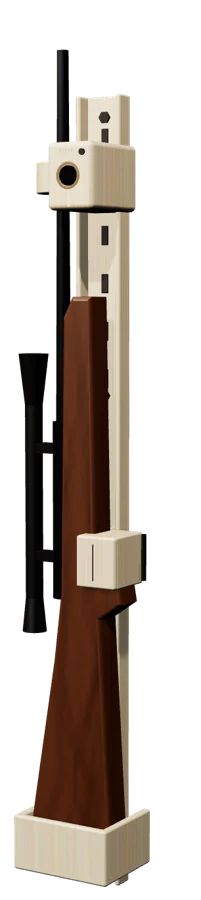
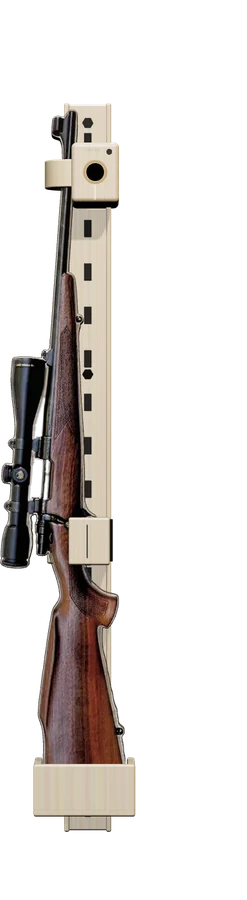
Full sweep: new guns everywhere (shop style step, shop renders x20, admin), car trunk view fixed (framing, gate, materials, soft fade when switching wall/car), true matte black, speed governor (pixel budget, auto-drop AO/bloom/post if frames are slow)
Claude-Session: https://claude.ai/code/session_017P5iNDVymbiEUQ1MggiqgS

diff --git a/site/configure/index.html b/site/configure/index.html
@@ -136,7 +136,7 @@ body:has(#picker.on) #quest{opacity:0!important;visibility:hidden!important}
 body:has(#picker.on) .coach{display:none}
 .tile .gunph{width:100%;height:34px;object-fit:contain;filter:drop-shadow(0 2px 3px rgba(0,0,0,.4));margin-bottom:6px}
 </style>
-<link rel="stylesheet" href="/shell.css?v=26">
+<link rel="stylesheet" href="/shell.css?v=27">
 <script type="importmap">
 {"imports":{"three":"https://cdn.jsdelivr.net/npm/three@0.160.0/build/three.module.js","three/addons/":"https://cdn.jsdelivr.net/npm/three@0.160.0/examples/jsm/"}}
 </script>
@@ -213,8 +213,8 @@ d_photo:['Photos','الصور'],pk_photo:['Your photos','صورك']
 <div class="coach hide" id="coach" data-i18n="coach">Tap to test the lock</div>
 <div id="toast"></div>
 <div id="busy" class="glass"><i></i><span></span></div>
-<script src="/shell.js?v=26"></script>
-<script src="/fx.js?v=26"></script>
+<script src="/shell.js?v=27"></script>
+<script src="/fx.js?v=27"></script>
 <script type="module">
 import * as THREE from 'three';
 import { OrbitControls } from 'three/addons/controls/OrbitControls.js';
@@ -229,7 +229,7 @@ import { AfterimagePass } from 'three/addons/postprocessing/AfterimagePass.js';
 import { ShaderPass } from 'three/addons/postprocessing/ShaderPass.js';
 const canvas=document.getElementById('c');
 const renderer=new THREE.WebGLRenderer({canvas,antialias:true,powerPreference:'high-performance'});
-renderer.setPixelRatio(Math.min(devicePixelRatio,2));renderer.setSize(innerWidth,innerHeight,false);
+renderer.setPixelRatio(Math.max(1,Math.min(devicePixelRatio,innerWidth<820?1.5:1.75,Math.sqrt(2.4e6/(innerWidth*innerHeight)))));renderer.setSize(innerWidth,innerHeight,false);
 renderer.outputColorSpace=THREE.SRGBColorSpace;renderer.toneMapping=THREE.ACESFilmicToneMapping;renderer.toneMappingExposure=1.05;
 renderer.shadowMap.enabled=true;renderer.shadowMap.type=THREE.PCFSoftShadowMap;
 const scene=new THREE.Scene();scene.background=new THREE.Color(0x0e0d0b);scene.fog=new THREE.Fog(0x0e0d0b,8,16);
@@ -406,14 +406,14 @@ room.traverse(o=>{if(o.isMesh&&o!==wall&&o!==side&&o!==floor&&o!==rug&&o!==win){
 const car=new THREE.Group();car.visible=false;scene.add(car);
 const ground=mesh(new THREE.PlaneGeometry(14,14),new THREE.MeshStandardMaterial({color:0x1a1917,roughness:.92,map:plaster}));ground.rotation.x=-Math.PI/2;ground.castShadow=false;car.add(ground);
 const carpet=new THREE.MeshStandardMaterial({color:0x1d1c1a,roughness:1});
-const paint=new THREE.MeshPhysicalMaterial({color:0x2a2d31,metalness:.6,roughness:.3,clearcoat:1,clearcoatRoughness:.08});
-const leather=new THREE.MeshStandardMaterial({color:0x2b2621,roughness:.62});
+const paint=new THREE.MeshPhysicalMaterial({color:0x26282c,metalness:.5,roughness:.42,clearcoat:.5,clearcoatRoughness:.3});
+const leather=new THREE.MeshStandardMaterial({color:0x1c1916,roughness:.75});
 car.add(at(rbox(1.96,.05,1.15,.01,carpet),0,.475,-.05));
 car.add(at(rbox(.07,.6,1.15,.02,carpet),-1.0,.75,-.05),at(rbox(.07,.6,1.15,.02,carpet),1.0,.75,-.05));
 const seat=new THREE.Group();seat.add(at(rbox(1.94,.78,.18,.04,leather),0,.39,0));[-.55,.55].forEach(x=>seat.add(at(rbox(.3,.2,.12,.04,leather),x,.9,0)));seat.position.set(0,.5,-.66);seat.rotation.x=-.18;car.add(seat);
 car.add(at(rbox(.18,1.0,.3,.03,paint),-1.12,.98,.48),at(rbox(.18,1.0,.3,.03,paint),1.12,.98,.48),at(rbox(2.42,.14,.34,.03,paint),0,1.5,.42),at(rbox(2.42,.36,.36,.05,paint),0,.3,.62),at(box(2.0,.035,.14,M.steel),0,.495,.52));
 const tl=new THREE.MeshStandardMaterial({color:0x2a0a08,emissive:0x8a1a10,emissiveIntensity:.6,roughness:.3});car.add(at(rbox(.05,.5,.06,.01,tl),-1.12,1.05,.64),at(rbox(.05,.5,.06,.01,tl),1.12,1.05,.64));
-const gate=new THREE.Group();gate.position.set(0,1.56,.5);gate.rotation.x=-1.9;gate.add(at(rbox(2.1,.95,.06,.03,paint),0,-.475,0));car.add(gate);
+const gate=new THREE.Group();gate.position.set(0,1.56,.5);gate.rotation.x=-2.55;gate.add(at(rbox(2.1,.95,.06,.03,paint),0,-.475,0));car.add(gate);
 const garage=new THREE.PointLight(0xfff0dc,6,9,1.6);garage.position.set(-1.2,2.6,2.4);car.add(garage);
 car.traverse(o=>{if(o.isMesh&&o!==ground){o.castShadow=true;o.receiveShadow=true;}});ground.receiveShadow=true;
 /* ---------- lights ---------- */
@@ -425,7 +425,7 @@ const picSpot=new THREE.SpotLight(0xffdcae,10,2.2,.7,.9,1.5);scene.add(picSpot,p
 const S={gun:'ar15',mount:'wall',wall:0,fin:0,night:true,place:false,open:false,busy:false,view:0};
 let fx=.1,fy=1.6;
 const WALLS=['#6b625a','#e2d9ca','#3d3129','#4a4a3b'];
-const FIN=[{c:'#1b1b1c',m:[0x161617,.55,.62]},{c:'#8a6a43',m:[0x8a6a43,.95,.3]},{c:'#bdb9b1',m:[0xb8b4ac,1,.24]},{c:'#cbbfa9',m:[0xc8bba3,.1,.55]}];
+const FIN=[{c:'#1b1b1c',m:[0x0c0c0d,.4,.55]},{c:'#8a6a43',m:[0x8a6a43,.95,.3]},{c:'#bdb9b1',m:[0xb8b4ac,1,.24]},{c:'#cbbfa9',m:[0xc8bba3,.1,.55]}];
 function setFinish(i){const f=FIN[i].m;shellM.color.setHex(f[0]);shellM.metalness=f[1];shellM.roughness=f[2];}
 function setWall(i){wallMat.color.set(WALLS[i]).multiplyScalar(i===1?.72:1);baseM.color.set(WALLS[i]).multiplyScalar(.5);}
 function setLight(night){S.night=night;hemi.intensity=night?.18:.9;sun.intensity=night?.15:1.6;spot.intensity=night?34:16;picSpot.intensity=night?12:5;lampL.intensity=night?2.4:.6;shade.material.emissiveIntensity=night?.5:.15;winM.color.set(night?0x2a3445:0xfff1d8);renderer.toneMappingExposure=night?1.0:1.08;const bg=night?0x0b0a09:0x1c1a17;if(scene.background&&scene.background.isColor)scene.background.setHex(bg);if(scene.fog)scene.fog.color.setHex(bg);}
@@ -446,7 +446,7 @@ function flyTo(p,t,d=1.4){tw={p0:camera.position.clone(),t0:controls.target.clon
 function view(i){if(S.ar)return;S.view=i;document.getElementById('vLabel').textContent=Shell.t(VIEWS[i]);const V=(x,y,z)=>new THREE.Vector3(x,y,z);let p,t;
  const mid=fy+(BUTT+COL.x)/2,lockY=fy+COL.x;
  if(S.mount==='wall'){if(i===0){p=V(fx,mid+.1,3.4);t=V(fx,mid+.05,0);}if(i===1){p=V(fx+.55,lockY+.08,.75);t=V(fx,lockY-.06,.04);}if(i===2){p=V(fx+2.3,1.55,4.6);t=V(fx*.5,1.15,0);}}
- else{if(i===0){p=V(0,1.62,1.35);t=V(0,.52,-.12);}if(i===1){p=V(.75,1.05,.55);t=V(COL.x-.25,.6,0);}if(i===2){p=V(2.6,1.35,3.4);t=V(0,.75,0);}}
+ else{if(i===0){p=V(0,2.15,1.25);t=V(0,.5,-.08);}if(i===1){p=V(.35,1.25,.62);t=V(.15,.52,-.05);}if(i===2){p=V(2.2,1.9,2.9);t=V(0,.6,0);}}
  if(innerHeight>innerWidth&&i!==1){const off=new THREE.Vector3().subVectors(p,t).multiplyScalar(1.45);p=t.clone().add(off);}
  flyTo(p,t);}
 controls.addEventListener('start',()=>{tw=null;});
@@ -486,7 +486,7 @@ function pickGun(id){S.gun=id;build(baseOf(id));place();presetTex=null;presetCut
  loadPreset(id).then(p=>{if(!p||S.gun!==id)return;presetTex=p.tex;presetCutP=p.cut;presetLen=p.len;placePhotoGun();});}
 function renderUI(){
  const pg=document.getElementById('pGun');pg.innerHTML='';Object.keys(GKEYS).forEach(id=>{const b=document.createElement('button');b.className='tile'+(S.gun===id?' on':'');b.innerHTML=`<img class="gunph" src="/configure/guns/${id}.webp?v=2" alt=""><span>${Shell.t(GKEYS[id])}</span>`;b.onclick=()=>{useMyPhoto=false;pickGun(id);renderUI();renderPhotoUI();};pg.appendChild(b);});
- const pp=document.getElementById('pPlace');pp.innerHTML='';[['wall','place','p_wall'],['car','car','p_car']].forEach(([id,ic,k])=>{const b=document.createElement('button');b.className='tile'+(S.mount===id?' on':'');b.innerHTML=`<span class="ic">${Shell.UIIC[ic]}</span><span>${Shell.t(k)}</span>`;b.onclick=()=>{if(S.place)togglePlace(false);S.mount=id;place();view(0);renderUI();};pp.appendChild(b);});
+ const pp=document.getElementById('pPlace');pp.innerHTML='';[['wall','place','p_wall'],['car','car','p_car']].forEach(([id,ic,k])=>{const b=document.createElement('button');b.className='tile'+(S.mount===id?' on':'');b.innerHTML=`<span class="ic">${Shell.UIIC[ic]}</span><span>${Shell.t(k)}</span>`;b.onclick=()=>{if(S.mount===id)return;if(S.place)togglePlace(false);const fd=document.getElementById('mfade');fd.classList.add('on');setTimeout(()=>{S.mount=id;place();view(0);renderUI();setTimeout(()=>fd.classList.remove('on'),80);},260);};pp.appendChild(b);});
  document.getElementById('wallOpts').style.display=S.mount==='wall'?'':'none';
  const dots=(el,arr,key,lab,fn)=>{el.innerHTML='';arr.forEach((c,i)=>{const b=document.createElement('button');if(S[key]===i)b.classList.add('on');b.innerHTML=`<i style="background:${c}"></i><span>${Shell.t(lab+i)}</span>`;b.onclick=()=>{S[key]=i;fn(i);renderUI();};el.appendChild(b);});};
  dots(document.getElementById('pWall'),WALLS,'wall','w',setWall);
@@ -772,7 +772,7 @@ function wallTex(kind){if(WTEX[kind])return WTEX[kind];let t;
  const N=(x,w,h,a)=>{const d=x.getImageData(0,0,w,h);for(let i=0;i<d.data.length;i+=4){const n=rnd(-a,a);d.data[i]+=n;d.data[i+1]+=n;d.data[i+2]+=n;}x.putImageData(d,0,0);};
  if(kind==='wood')t=ctex(512,512,(x,w,h)=>{for(let i=0;i<8;i++){const v=200+rnd(-25,25);x.fillStyle=`rgb(${v},${v},${v})`;x.fillRect(i*w/8,0,w/8,h);x.fillStyle='rgba(0,0,0,.35)';x.fillRect(i*w/8,0,2,h);for(let k=0;k<26;k++){x.strokeStyle=`rgba(0,0,0,${rnd(.04,.12)})`;x.beginPath();let gx=i*w/8+rnd(0,w/8);x.moveTo(gx,0);for(let y=0;y<h;y+=24){gx+=rnd(-1.5,1.5);x.lineTo(gx,y);}x.stroke();}}},[4,1.6]);
  else if(kind==='tile'||kind==='marble'){t=ctex(512,512,(x,w,h)=>{x.fillStyle='#e6e6e6';x.fillRect(0,0,w,h);if(kind==='marble'){for(let k=0;k<14;k++){x.strokeStyle=`rgba(90,90,90,${rnd(.08,.25)})`;x.lineWidth=rnd(.6,2.2);x.beginPath();let px=rnd(0,w),py=0;x.moveTo(px,py);while(py<h){px+=rnd(-30,30);py+=rnd(20,50);x.lineTo(px,py);}x.stroke();}}N(x,w,h,6);x.fillStyle='rgba(0,0,0,.25)';for(let i=0;i<=4;i++){x.fillRect(i*w/4-1,0,2,h);x.fillRect(0,i*h/4-1,w,2);}},[4,1.7]);}
- else if(kind==='brick')t=ctex(512,512,(x,w,h)=>{x.fillStyle='#9a9a9a';x.fillRect(0,0,w,h);const bh=h/16,bw=w/4;for(let r=0;r<16;r++)for(let c=-1;c<5;c++){const v=260+rnd(-30,25);x.fillStyle=`rgb(${v},${v},${v})`;x.fillRect(c*bw+(r%2)*bw/2+2,r*bh+2,bw-4,bh-4);}N(x,w,h,10);},[3,1.4]);
+ else if(kind==='brick')t=ctex(512,512,(x,w,h)=>{x.fillStyle='#9a9a9a';x.fillRect(0,0,w,h);const bh=h/16,bw=w/4;for(let r=0;r<16;r++)for(let c=-1;c<5;c++){const v=270+rnd(-30,25);x.fillStyle=`rgb(${v},${v},${v})`;x.fillRect(c*bw+(r%2)*bw/2+2,r*bh+2,bw-4,bh-4);}N(x,w,h,10);},[3,1.4]);
  else if(kind==='concrete'||kind==='stone')t=ctex(512,512,(x,w,h)=>{x.fillStyle='#d0d0d0';x.fillRect(0,0,w,h);for(let i=0;i<300;i++){const r=rnd(10,60),px=rnd(0,w),py=rnd(0,h),g=x.createRadialGradient(px,py,0,px,py,r);g.addColorStop(0,`rgba(${Math.random()>.5?255:120},${Math.random()>.5?255:120},${Math.random()>.5?255:120},.07)`);g.addColorStop(1,'rgba(0,0,0,0)');x.fillStyle=g;x.fillRect(px-r,py-r,r*2,r*2);}N(x,w,h,16);if(kind==='concrete'){x.fillStyle='rgba(0,0,0,.18)';for(let i=1;i<3;i++)x.fillRect(0,i*h/3,w,1);for(let i=1;i<2;i++)x.fillRect(i*w/2,0,1,h);[[.2,.2],[.8,.2],[.2,.53],[.8,.53],[.2,.86],[.8,.86]].forEach(([a,b])=>{x.beginPath();x.arc(a*w,b*h,4,0,7);x.fill();});}},[2,1]);
  else if(kind==='wallpaper')t=ctex(256,256,(x,w,h)=>{x.fillStyle='#e8e8e8';x.fillRect(0,0,w,h);x.strokeStyle='rgba(0,0,0,.09)';x.lineWidth=2;for(let i=0;i<8;i++){x.beginPath();x.moveTo(i*w/8+w/16,0);x.lineTo(i*w/8+w/16,h);x.stroke();}N(x,w,h,5);},[10,4]);
  else t=plaster;
@@ -925,7 +925,7 @@ function enter(){if(!intro)return;intro=false;setTimeout(()=>{qEl.classList.add(
 document.getElementById('enter').onclick=enter;
 if(/photos/.test(location.search)){setTimeout(()=>{enter();setTimeout(()=>openPk('photo'),900);},300);}
 document.querySelectorAll('[data-go]').forEach(b=>b.addEventListener('click',()=>Shell.go(b.dataset.go)));
-window.LOCKG_SHOPQ=()=>`?fin=${S.fin===4?'custom&hex='+encodeURIComponent(S.hex):(['black','bronze','nickel','sand'][S.fin]||'black')}&gun=${baseOf(S.gun)}&p=${S.mount==='car'?'car':'wall'}`;
+window.LOCKG_SHOPQ=()=>`?fin=${S.fin===4?'custom&hex='+encodeURIComponent(S.hex):(['black','bronze','nickel','sand'][S.fin]||'black')}&gun=${S.gun}&p=${S.mount==='car'?'car':'wall'}`;
 window.LOCKG_SUMMARY=()=>`LOCKG ONE · ${Shell.t('f'+S.fin)} · ${Shell.t(GKEYS[S.gun])} · ${Shell.t(S.mount==='wall'?'p_wall':'p_car')}`;
 Shell.onLang(()=>renderUI());
 /* layout */
@@ -946,7 +946,7 @@ const CINE={uniforms:{tDiffuse:{value:null},uT:{value:0},uK:{value:0},uV:{value:
   c+=(h(vUv*vec2(913.,557.))-.5)*.028;                // film grain
   gl_FragColor=vec4(c,1.);}`};
 function makeCine(renderer,scene,camera,THREE,EffectComposer,RenderPass,AfterimagePass,ShaderPass,OutputPass,extra){
- const comp=new EffectComposer(renderer);comp.setPixelRatio(Math.min(devicePixelRatio,innerWidth<820?1.5:2));comp.setSize(innerWidth,innerHeight);
+ const comp=new EffectComposer(renderer);window.__comp=comp;comp.setPixelRatio(Math.max(1,Math.min(devicePixelRatio,innerWidth<820?1.5:1.75,Math.sqrt(2.4e6/(innerWidth*innerHeight)))));comp.setSize(innerWidth,innerHeight);
  comp.addPass(new RenderPass(scene,camera));if(extra)extra(comp);
  const trail=new AfterimagePass(0);comp.addPass(trail);const grade=new ShaderPass(CINE);comp.addPass(grade);comp.addPass(new OutputPass());
  return {comp,trail,grade};}
@@ -967,6 +967,17 @@ const cine=makeCine(renderer,scene,camera,THREE,EffectComposer,RenderPass,Afteri
 composer=cine.comp;
 /* init */
 build('ar');setTimeout(()=>pickGun(S.gun),0);setFinish(0);setWall(0);setLight(true);place();renderUI();layout();
+
+/* speed governor: keeps it smooth on any laptop. Starts sharp, steps quality down only if frames are slow */
+const PRB=()=>Math.max(1,Math.min(devicePixelRatio,innerWidth<820?1.5:1.75,Math.sqrt(2.4e6/(innerWidth*innerHeight))));
+const GOV={n:0,t:0,last:0,lvl:0,pr:PRB(),wait:performance.now()+2500};
+function govApply(){renderer.setPixelRatio(GOV.pr);renderer.setSize(innerWidth,innerHeight,false);if(window.__comp){__comp.setPixelRatio(GOV.pr);__comp.setSize(innerWidth,innerHeight);}}
+function gov(now){const dt=now-GOV.last;GOV.last=now;if(now<GOV.wait||document.hidden||dt>250)return;GOV.n++;GOV.t+=dt;
+ if(GOV.n>=75){const avg=GOV.t/GOV.n;GOV.n=0;GOV.t=0;if(avg>24&&GOV.lvl<3){GOV.lvl++;
+  if(GOV.lvl===1&&window.__comp)__comp.passes.forEach(p=>{const n=p.constructor&&p.constructor.name;if(/GTAO|Bloom/.test(n))p.enabled=false;});
+  if(GOV.lvl===2){GOV.pr=Math.max(1,GOV.pr*.75);govApply();}
+  if(GOV.lvl===3){GOV.pr=1;window.__lite=true;govApply();}
+  GOV.wait=now+1200;}}}
 /* loop */
 let expl=0,explT=0;const coverShift=new THREE.Vector2();const EX={bolts:[0,0,-.09],rail:[0,0,0],cradle:[0,-.05,.17],cover:[0,0,.2],lock:[0,.05,.17],gate:[0,.05,.3],gun:[-.2,0,.44]};
 document.getElementById('bExplode').onclick=e=>{explT=explT?0:1;explodeStart(!!explT,performance.now());e.currentTarget.classList.toggle('on',!!explT);if(explT&&!ar.on)view(0);};
@@ -974,7 +985,7 @@ const ease=k=>k<.5?4*k*k*k:1-Math.pow(-2*k+2,3)/2;
 const RC={idle:new THREE.Color(0x9c7a4e),scan:new THREE.Color(0xf2ede4),ok:new THREE.Color(0xeadcc2),deny:new THREE.Color(0xc0503a)};
 let last=performance.now();
 const dust=window.LOCKG_FX&&LOCKG_FX.dust(THREE,scene,{center:[0,1.7,.9],box:[3.4,2.4,2.2],n:420});
-function loop(now){const dt=Math.min(.05,(now-last)/1000);last=now;if(dust){dust.tick(now/1000);dust.pts.visible=!ar.on;}
+function loop(now){gov(now);const dt=Math.min(.05,(now-last)/1000);last=now;if(dust){dust.tick(now/1000);dust.pts.visible=!ar.on;}
  if(intro){const t=(now-i0)/1000;camera.position.set(Math.sin(t*.12)*1.5+.5,1.5+Math.sin(t*.2)*.05,3.4-Math.cos(t*.12)*.3);controls.target.set(fx,fy,0);}
  if(tw){const k=Math.min(1,(now-tw.s)/tw.d),e=ease(k);camera.position.lerpVectors(tw.p0,tw.p1,e);controls.target.lerpVectors(tw.t0,tw.t1,e);if(k>=1)tw=null;}
  offK+=(offT-offK)*Math.min(1,dt*6);const w=innerWidth,h=innerHeight;if(offK>.001)camera.setViewOffset(w,h,0,h*.14*offK,w,h);else camera.clearViewOffset();camera.updateProjectionMatrix();
@@ -985,10 +996,12 @@ function loop(now){const dt=Math.min(.05,(now-last)/1000);last=now;if(dust){dust
  const rt=(now-ringT0)/1000;ringM.emissive.copy(RC[ringMode]);ringM.emissiveIntensity=ringMode==='idle'?.9+.5*Math.sin(now/700):ringMode==='scan'?1.3+1.2*Math.abs(Math.sin(rt*18)):ringMode==='ok'?3:(Math.sin(rt*22)>0?3.2:.3);
  const st=(now-shakeT)/1000;const sh=st<.45?Math.sin(st*70)*.004*(1-st/.45):0;
  if(ar.on){product.position.set(ar.x+sh,ar.y,-WZ*ar.s);product.scale.setScalar(ar.s);spot.target.position.set(ar.x,ar.y,0);camera.clearViewOffset();camera.updateProjectionMatrix();renderer.render(scene,camera);}
- else{product.position.x=(S.mount==='wall'?fx:-.18)+sh;controls.update();if(composer)composer.render();else renderer.render(scene,camera);}
+ else{product.position.x=(S.mount==='wall'?fx:-.18)+sh;controls.update();if(composer&&!window.__lite)composer.render();else renderer.render(scene,camera);}
  requestAnimationFrame(loop);}
 requestAnimationFrame(loop);
 window.__room={unlock,view,S,place};
+window.__snap=(bg,fin)=>{tw=null;setLight(false);spot.intensity=11;hemi.intensity=.5;sun.intensity=.9;if(fin!==undefined)setFinish(fin);room.visible=false;car.visible=false;picSpot.visible=false;scene.background=new THREE.Color(bg);scene.fog=null;const mid=fy+(BUTT+COL.x)/2+.03;camera.position.set(fx,mid,5.2);controls.target.set(fx,mid,0);camera.lookAt(fx,mid,0);camera.fov=17;camera.updateProjectionMatrix();renderer.render(scene,camera);return canvas.toDataURL('image/png');};
 </script>
+<div id="mfade"></div><style>#mfade{position:fixed;inset:0;z-index:4;background:var(--ink,#0e0d0b);opacity:0;pointer-events:none;transition:opacity .26s ease}#mfade.on{opacity:1}</style>
 </body>
 </html>

diff --git a/site/shop/index.html b/site/shop/index.html
@@ -101,8 +101,8 @@ html[lang=ar] .card b{font:500 16px/1.4 var(--arab)}
 .sw .on i{outline-color:var(--gold)}
 .sw em{display:block;font-style:normal;font-size:11px;margin-top:9px;color:color-mix(in srgb,var(--ivory) 60%,transparent)}
 .sw .on em{color:var(--ivory)}
-.guns{display:grid;grid-template-columns:repeat(4,1fr);gap:8px}
-.guns button{padding:14px 6px 12px;border-radius:18px;border:1.5px solid rgba(255,255,255,.08);background:rgba(255,255,255,.04);cursor:pointer;transition:.2s}
+.guns{display:grid;grid-template-columns:repeat(auto-fill,minmax(98px,1fr));gap:8px}
+.guns button{font-size:11.5px;line-height:1.25;padding:12px 6px 10px;border-radius:18px;border:1.5px solid rgba(255,255,255,.08);background:rgba(255,255,255,.04);cursor:pointer;transition:.2s}
 .guns button.on{border-color:var(--gold);background:color-mix(in srgb,var(--gold) 9%,transparent)}
 .guns svg{width:44px;height:22px;display:block;margin:0 auto 8px}
 .guns span{font-size:11px;color:color-mix(in srgb,var(--ivory) 73%,transparent)}
@@ -184,8 +184,9 @@ html[dir=rtl] #next svg{transform:scaleX(-1)}
  #art{height:92%}#flow{padding:10px 18px 100px}
 }
 @media (max-width:380px){.card .pic{width:56px;height:56px}.card b{font-size:18px}#next{padding:0 22px}}
+.guns .gph{width:100%;height:30px;object-fit:contain;display:block;margin:2px auto 6px;filter:drop-shadow(0 2px 3px rgba(0,0,0,.4))}
 </style>
-<link rel="stylesheet" href="/shell.css?v=26">
+<link rel="stylesheet" href="/shell.css?v=27">
 <script type="importmap">
 {"imports":{"three":"https://cdn.jsdelivr.net/npm/three@0.160.0/build/three.module.js","three/addons/":"https://cdn.jsdelivr.net/npm/three@0.160.0/examples/jsm/"}}
 </script>
@@ -268,7 +269,8 @@ const EXTRAS=[
  {id:'care',price:39,en:['2 extra years of care','4 years total. Any fault, we replace it.'],ar:['سنتان إضافيتان من الرعاية','4 سنوات. أي عطل نستبدله.']}];
 const CUSTOM={id:'custom',c:'#7a1f2b',hi:'#b54a5a',en:'Your color',ar:'لونك'};
 const FINS=[{id:'black',c:'#1d1d1f',hi:'#3a3a3d',en:'Matte black',ar:'أسود مطفي'},{id:'bronze',c:'#8a6a43',hi:'#c8a574',en:'Bronze',ar:'برونزي'},{id:'nickel',c:'#8d8e90',hi:'#d7d8da',en:'Nickel',ar:'نيكل'},{id:'sand',c:'#b9a586',hi:'#e3d6bf',en:'Sand',ar:'رملي'}];
-const GUNS=[{id:'ar',en:'AR rifle',ar:'بندقية AR'},{id:'pump',en:'Shotgun',ar:'شوزن'},{id:'bolt',en:'Bolt rifle',ar:'بندقية ترباس'},{id:'lever',en:'Lever',ar:'رافعة'}];
+const GUNS=[{id:'d12',en:'Bronze AR shotgun',ar:'شوزن AR برونزي'},{id:'ar15',en:'AR-15 rifle',ar:'بندقية AR-15'},{id:'m4',en:'Tactical shotgun',ar:'شوزن تكتيكي'},{id:'pump12',en:'Classic pump',ar:'شوزن كلاسيكي'},{id:'bolt',en:'Walnut bolt rifle',ar:'بندقية ترباس جوز'}];
+const GOLD_MAP={ar:'ar15',pump:'pump12',lever:'bolt',shotgun:'m4'};
 const PAYS=[
  {id:'card',en:['Card or Apple Pay','We send a secure pay link to your WhatsApp. Pay in 1 tap.'],ar:['بطاقة أو Apple Pay','نرسل رابط دفع آمن إلى واتساب. ادفع بلمسة.']},
  {id:'cod',en:['Cash on delivery','Pay when it arrives at your door.'],ar:['الدفع عند الاستلام','ادفع عند وصوله إلى بابك.']}];
@@ -288,11 +290,11 @@ window.LOCKG_I18N={
  s_n2:['We deliver in 2 to 4 days.','نوصل خلال 2 إلى 4 أيام.'],s_n3:['You add your prints in 30 seconds.','تضيف بصماتك في 30 ثانية.'],s_mail:['Confirmation sent to ','أرسلنا التأكيد إلى '],
  s_err:['Could not send. Call us: ','تعذر الإرسال. اتصل بنا: '],s_fix:['Please fill the marked fields','يرجى تعبئة الحقول المحددة'],s_order:['Order','الطلب'],s_home:['Back to LOCKG','العودة إلى LOCKG']};
 </script>
-<script src="/shell.js?v=26"></script>
-<script src="/fx.js?v=26"></script>
+<script src="/shell.js?v=27"></script>
+<script src="/fx.js?v=27"></script>
 <script>
 const T=k=>Shell.t(k),AR=()=>Shell.lang==='ar',L=o=>AR()?o.ar:o.en,$=id=>document.getElementById(id);
-const O={prod:'wall',fin:'black',gun:'ar',extras:new Set(),qty:1,pay:'card'};
+const O={prod:'wall',fin:'black',gun:'ar15',extras:new Set(),qty:1,pay:'card'};
 let step=0,sent=false;const NS=5;
 const money=n=>CUR.sym+n.toLocaleString('en-US');
 const DISC=()=>{const p=window.LOCKG_LIVE&&window.LOCKG_LIVE.promo;return p?Math.min(90,Math.max(0,+p.percent||0)):0;};
@@ -300,11 +302,12 @@ const ADM=()=>!!(PRODUCTS.find(x=>x.id===O.prod)||{}).admin;
 function sub(){const p=PRODUCTS.find(x=>x.id===O.prod);let t=p.price;O.extras.forEach(id=>{const e=EXTRAS.find(x=>x.id===id);t+=e.price*(id==='install'&&O.prod==='duo'?2:1);});return t*O.qty;}
 function total(){return Math.round(sub()*(1-DISC()/100));}
 /* ---------- the picture ---------- */
-const GUNPATH={
+const GUNPATH0={
  ar:'M0 34 L4 22 L46 26 L50 20 L96 20 L96 14 L104 14 L104 20 L150 21 L150 25 L104 26 L100 31 L80 31 L78 44 L70 44 L72 31 L60 31 L56 46 L48 46 L50 31 L10 36 Z',
  pump:'M0 30 L6 18 L50 22 L58 18 L150 19 L150 24 L104 24 L104 29 L70 29 L66 26 L58 27 L52 38 L44 38 L46 28 L8 34 Z',
  bolt:'M0 30 L6 16 L40 22 L52 18 L70 18 L72 13 L96 13 L98 18 L150 19 L150 23 L96 23 L90 26 L60 27 L52 36 L44 35 L46 27 L8 34 Z',
  lever:'M0 30 L6 18 L46 22 L56 19 L150 19 L150 24 L80 24 L76 27 L60 27 L64 34 L52 38 L44 33 L48 27 L8 34 Z'};
+const GUNPATH={...GUNPATH0,d12:GUNPATH0.ar,ar15:GUNPATH0.ar,m4:GUNPATH0.pump,pump12:GUNPATH0.pump};
 function art(target,prod,fin,gun,big){
  const F=FINS.find(f=>f.id===fin),id='g'+Math.random().toString(36).slice(2,7);
  const defs=`<defs><linearGradient id="${id}m" x1="0" x2="1"><stop offset="0" stop-color="${F.c}"/><stop offset=".45" stop-color="${F.hi}"/><stop offset="1" stop-color="${F.c}"/></linearGradient><linearGradient id="${id}d" x1="0" x2="1"><stop offset="0" stop-color="#0d0d0e"/><stop offset=".5" stop-color="#2a2a2c"/><stop offset="1" stop-color="#0d0d0e"/></linearGradient><radialGradient id="${id}r"><stop offset=".55" stop-color="#C8A574" stop-opacity="0"/><stop offset=".7" stop-color="#C8A574"/><stop offset="1" stop-color="#C8A574" stop-opacity="0"/></radialGradient></defs>`;
@@ -338,7 +341,7 @@ function render(){
  const fs=$('fins');fs.innerHTML='';FINS.forEach(f=>{const b=document.createElement('button');if(O.fin===f.id)b.className='on';b.innerHTML=`<i style="background:radial-gradient(circle at 35% 30%,${f.hi},${f.c} 70%)"></i><em>${L(f)}</em>`;b.onclick=()=>{O.fin=f.id;render();paint();};fs.appendChild(b);});
  {const lb=document.createElement('label');if(O.fin==='custom')lb.className='on';lb.innerHTML=`<i style="background:${O.fin==='custom'?CUSTOM.c:'conic-gradient(#e94b4b,#f2c94c,#6fcf97,#56ccf2,#9b51e0,#e94b4b)'}"></i><em>${L(CUSTOM)}</em><input type="color" value="${CUSTOM.c}">`;lb.querySelector('input').oninput=e=>{CUSTOM.c=e.target.value;O.fin='custom';lb.querySelector('i').style.background=CUSTOM.c;fs.querySelectorAll('.on').forEach(x=>x.classList.remove('on'));lb.classList.add('on');$('finName').textContent=L(CUSTOM)+' · '+CUSTOM.c.toUpperCase();paint();};lb.querySelector('input').onchange=()=>{render();paint();};fs.appendChild(lb);}
  $('finName').textContent=L(FIN())+(O.fin==='custom'?' · '+CUSTOM.c.toUpperCase():'');
- const gs=$('guns');gs.innerHTML='';GUNS.forEach(g=>{const b=document.createElement('button');if(O.gun===g.id)b.className='on';b.innerHTML=`<svg viewBox="0 0 152 48"><path d="${GUNPATH[g.id]}" fill="currentColor"/></svg><span>${L(g)}</span>`;b.onclick=()=>{O.gun=g.id;render();paint();};gs.appendChild(b);});
+ const gs=$('guns');gs.innerHTML='';GUNS.forEach(g=>{const b=document.createElement('button');if(O.gun===g.id)b.className='on';b.innerHTML=`<img class="gph" src="/configure/guns/${g.id}.webp?v=2" alt="" loading="lazy"><span>${L(g)}</span>`;b.onclick=()=>{O.gun=g.id;render();paint();};gs.appendChild(b);});
  $('gunName').textContent=L(GUNS.find(g=>g.id===O.gun));
  // extras
  const ex=$('extras');ex.innerHTML='';EXTRAS.forEach(e=>{const b=card(e,O.extras.has(e.id),'+'+money(e.price));b.onclick=()=>{O.extras.has(e.id)?O.extras.delete(e.id):O.extras.add(e.id);render();paint();};ex.appendChild(b);});
@@ -376,12 +379,12 @@ $('next').onclick=async()=>{
  nb.disabled=false;if(!sent)render();};
 function toastMsg(m){let t=$('stoast');if(!t){t=document.createElement('div');t.id='stoast';t.style.cssText='position:fixed;left:50%;bottom:calc(92px + env(safe-area-inset-bottom,0px));transform:translateX(-50%);z-index:60;padding:13px 20px;border-radius:999px;background:rgba(21,19,15,.92);border:1px solid #9c7a4e88;font-size:13px;transition:.3s;max-width:90vw;text-align:center';document.body.appendChild(t);}t.textContent=m;t.style.opacity=1;clearTimeout(t._h);t._h=setTimeout(()=>t.style.opacity=0,3200);}
 // deep link from the room page: /shop/?fin=bronze&gun=pump&p=car
-{const q=new URLSearchParams(location.search);if(FINS.some(f=>f.id===q.get('fin')))O.fin=q.get('fin');if(q.get('fin')==='custom'&&/^#[0-9a-f]{6}$/i.test(q.get('hex')||'')){O.fin='custom';CUSTOM.c=q.get('hex');}if(GUNS.some(g=>g.id===q.get('gun')))O.gun=q.get('gun');if(PRODUCTS.some(p=>p.id===q.get('p')))O.prod=q.get('p');}
+{const q=new URLSearchParams(location.search);if(FINS.some(f=>f.id===q.get('fin')))O.fin=q.get('fin');if(q.get('fin')==='custom'&&/^#[0-9a-f]{6}$/i.test(q.get('hex')||'')){O.fin='custom';CUSTOM.c=q.get('hex');}{const qg=GOLD_MAP[q.get('gun')]||q.get('gun');if(GUNS.some(g=>g.id===qg))O.gun=qg;}if(PRODUCTS.some(p=>p.id===q.get('p')))O.prod=q.get('p');}
 Shell.onLang(()=>{render();paint();});render();paint();
 setTimeout(()=>FINS.forEach(f=>GUNS.forEach(g=>{new Image().src=IMG(f.id,g.id);})),1500);
 </script>
 <script type="module">
-import { mount, snapshot } from '/v3d.js?v=26';
+import { mount, snapshot } from '/v3d.js?v=27';
 let V=null;
 window.LOCKG_V3D=m=>{const el=document.getElementById('v3d');if(!m)return;if(V)V.set(m);else V=mount(el,m);};
 const CORE_ORIG=PRODUCTS.filter(p=>!p.admin).map(p=>({...p,en:[...p.en],ar:[...p.ar]}));

diff --git a/site/index.html b/site/index.html
@@ -140,7 +140,7 @@ body.touring #title,body.touring #spec,body.touring .coach{opacity:0;pointer-eve
 .gpill.shopnow{background:linear-gradient(180deg,var(--a1),var(--a2))!important;color:var(--ink)!important;border:0!important;box-shadow:0 10px 30px color-mix(in srgb,var(--gold) 35%,transparent);font-weight:600}
 .tile .gunph{width:100%;height:34px;object-fit:contain;filter:drop-shadow(0 2px 3px rgba(0,0,0,.4));margin-bottom:6px}
 </style>
-<link rel="stylesheet" href="/shell.css?v=26">
+<link rel="stylesheet" href="/shell.css?v=27">
 <script type="importmap">
 {"imports":{"three":"https://cdn.jsdelivr.net/npm/three@0.160.0/build/three.module.js","three/addons/":"https://cdn.jsdelivr.net/npm/three@0.160.0/examples/jsm/"}}
 </script>
@@ -217,8 +217,8 @@ l_cradle:['Stock cradle','حامل الأخمص'],l_cradle_p:['Holds the weight.
 l_rail:['Wall rail','سكة الجدار'],l_rail_p:['Fits any long gun. Hidden bolts.','يناسب أي سلاح طويل. براغي مخفية.'],
 l_key:['Backup key','مفتاح احتياطي'],l_key_p:['Works with no power.','يعمل بدون كهرباء.']
 };</script>
-<script src="/shell.js?v=26"></script>
-<script src="/fx.js?v=26"></script>
+<script src="/shell.js?v=27"></script>
+<script src="/fx.js?v=27"></script>
 <script type="module">
 import * as THREE from 'three';
 import { OrbitControls } from 'three/addons/controls/OrbitControls.js';
@@ -231,7 +231,7 @@ import { ShaderPass } from 'three/addons/postprocessing/ShaderPass.js';
 import { OutputPass } from 'three/addons/postprocessing/OutputPass.js';
 
 const renderer=new THREE.WebGLRenderer({canvas:document.getElementById('c'),antialias:true});
-renderer.setPixelRatio(Math.min(devicePixelRatio,2));renderer.setSize(innerWidth,innerHeight,false);
+renderer.setPixelRatio(Math.max(1,Math.min(devicePixelRatio,innerWidth<820?1.5:1.75,Math.sqrt(2.4e6/(innerWidth*innerHeight)))));renderer.setSize(innerWidth,innerHeight,false);
 renderer.outputColorSpace=THREE.SRGBColorSpace;renderer.toneMapping=THREE.ACESFilmicToneMapping;renderer.toneMappingExposure=1.05;
 renderer.shadowMap.enabled=true;renderer.shadowMap.type=THREE.PCFSoftShadowMap;
 const scene=new THREE.Scene();scene.background=new THREE.Color(0x0d0c0a);scene.fog=new THREE.Fog(0x0d0c0a,5,11);
@@ -409,7 +409,7 @@ const CINE={uniforms:{tDiffuse:{value:null},uT:{value:0},uK:{value:0},uV:{value:
   c+=(h(vUv*vec2(913.,557.))-.5)*.028;                // film grain
   gl_FragColor=vec4(c,1.);}`};
 function makeCine(renderer,scene,camera,THREE,EffectComposer,RenderPass,AfterimagePass,ShaderPass,OutputPass,extra){
- const comp=new EffectComposer(renderer);comp.setPixelRatio(Math.min(devicePixelRatio,innerWidth<820?1.5:2));comp.setSize(innerWidth,innerHeight);
+ const comp=new EffectComposer(renderer);window.__comp=comp;comp.setPixelRatio(Math.max(1,Math.min(devicePixelRatio,innerWidth<820?1.5:1.75,Math.sqrt(2.4e6/(innerWidth*innerHeight)))));comp.setSize(innerWidth,innerHeight);
  comp.addPass(new RenderPass(scene,camera));if(extra)extra(comp);
  const trail=new AfterimagePass(0);comp.addPass(trail);const grade=new ShaderPass(CINE);comp.addPass(grade);comp.addPass(new OutputPass());
  return {comp,trail,grade};}
@@ -537,7 +537,18 @@ const RC={idle:new THREE.Color(0x9c7a4e),scan:new THREE.Color(0xf2ede4),ok:new T
 const EX={bolts:[0,0,-.09],rail:[0,0,0],cradle:[0,-.05,.17],cover:[0,0,.2],lock:[0,.05,.17],gate:[0,.05,.3],gun:[-.2,0,.44]};
 let last=performance.now();
 const dust=window.LOCKG_FX&&LOCKG_FX.dust(THREE,scene,{center:[0,.15,.3],box:[2.6,2.2,1.6],n:360});
-function loop(now){const dt=Math.min(.05,(now-last)/1000);last=now;if(dust)dust.tick(now/1000);
+
+/* speed governor: keeps it smooth on any laptop. Starts sharp, steps quality down only if frames are slow */
+const PRB=()=>Math.max(1,Math.min(devicePixelRatio,innerWidth<820?1.5:1.75,Math.sqrt(2.4e6/(innerWidth*innerHeight))));
+const GOV={n:0,t:0,last:0,lvl:0,pr:PRB(),wait:performance.now()+2500};
+function govApply(){renderer.setPixelRatio(GOV.pr);renderer.setSize(innerWidth,innerHeight,false);if(window.__comp){__comp.setPixelRatio(GOV.pr);__comp.setSize(innerWidth,innerHeight);}}
+function gov(now){const dt=now-GOV.last;GOV.last=now;if(now<GOV.wait||document.hidden||dt>250)return;GOV.n++;GOV.t+=dt;
+ if(GOV.n>=75){const avg=GOV.t/GOV.n;GOV.n=0;GOV.t=0;if(avg>24&&GOV.lvl<3){GOV.lvl++;
+  if(GOV.lvl===1&&window.__comp)__comp.passes.forEach(p=>{const n=p.constructor&&p.constructor.name;if(/GTAO|Bloom/.test(n))p.enabled=false;});
+  if(GOV.lvl===2){GOV.pr=Math.max(1,GOV.pr*.75);govApply();}
+  if(GOV.lvl===3){GOV.pr=1;window.__lite=true;govApply();}
+  GOV.wait=now+1200;}}}
+function loop(now){gov(now);const dt=Math.min(.05,(now-last)/1000);last=now;if(dust)dust.tick(now/1000);
  if(tw){const k=Math.min(1,(now-tw.s)/tw.d),e=ease(k);camera.position.lerpVectors(tw.p0,tw.p1,e);controls.target.lerpVectors(tw.t0,tw.t1,e);if(k>=1)tw=null;}
  open+=(openT-open)*Math.min(1,dt*9);coverHinge.rotation.x=open*1.3;
  gate+=(gateT-gate)*Math.min(1,dt*11);gatePivot.rotation.x=-gate*1.9;
@@ -545,7 +556,7 @@ function loop(now){const dt=Math.min(.05,(now-last)/1000);last=now;if(dust)dust.
  for(const k in EX){const o=EX[k],q=exK(k,e),cs=k==='cover'?coverShift:{x:0,y:0};parts[k].position.set(o[0]*q+cs.x,o[1]*q+cs.y,o[2]*q);parts[k].rotation.set(0,0,0);}
  const rt=(now-ringT0)/1000;ringM.emissive.copy(RC[ringMode]);ringM.emissiveIntensity=ringMode==='idle'?.8+.4*Math.sin(now/700):ringMode==='scan'?1.3+1.2*Math.abs(Math.sin(rt*18)):ringMode==='ok'?2.8:(Math.sin(rt*22)>0?3:.3);
  const st=(now-shakeT)/1000;product.position.x=st<.45?Math.sin(st*70)*.003*(1-st/.45):0;
- controls.update();cine.comp.render();updateLabels();requestAnimationFrame(loop);}
+ controls.update();if(window.__lite&&!(typeof expl!=='undefined'&&expl>0&&expl<1))renderer.render(scene,camera);else cine.comp.render();updateLabels();requestAnimationFrame(loop);}
 requestAnimationFrame(loop);
 
 

diff --git a/site/admin/index.html b/site/admin/index.html
@@ -323,7 +323,7 @@ main{max-width:1060px;margin:0 auto;padding:10px 20px calc(120px + var(--sab))}
 ['gesturestart','gesturechange'].forEach(k=>document.addEventListener(k,e=>e.preventDefault(),{passive:false}));document.addEventListener('dblclick',e=>e.preventDefault(),{passive:false});})();
 </script>
 <script type="module">
-let V3=null;const v3=async()=>V3||(V3=await import('/v3d.js?v=26'));
+let V3=null;const v3=async()=>V3||(V3=await import('/v3d.js?v=27'));
 const API='https://wfxyzsuuwpezjrqkpida.supabase.co/functions/v1/lockg-api';
 const $=id=>document.getElementById(id),esc=s=>String(s??'').replace(/[&<>"]/g,c=>({'&':'&amp;','<':'&lt;','>':'&gt;','"':'&quot;'}[c]));
 let AUTH=null,C={theme:{},promo:{},events:[],products:[]},dirty=new Set();
@@ -419,7 +419,7 @@ $('prIdeas').onclick=e=>{const t=IDEAS[e.target.dataset.i];if(!t)return;$('prDes
 /* ---------- shop products ---------- */
 let prIx=-1,draft=null,viewer=null;
 function renderShop(){const l=$('prList');l.innerHTML='';
- ['wall','car','duo'].forEach(id=>{const c=core(id);const d=document.createElement('div');d.className='it';d.innerHTML=`<div class="th"><img src="/shop/img/black-ar.webp" alt="" style="object-fit:contain;padding:4px;${id==='car'?'transform:rotate(-90deg)':''}"></div><div class="tx"><b>${esc(c.name)}${c.active===false?'<span class="tag">HIDDEN</span>':'<span class="tag">CORE</span>'}</b><small>${esc(c.line)}</small></div><div class="pr">$${esc(c.price)}</div><button class="ib" aria-label="edit"><svg viewBox="0 0 24 24" fill="none" stroke="currentColor" stroke-width="1.7" stroke-linecap="round"><path d="M4 20h4L19 9l-4-4L4 16z"/></svg></button>`;d.querySelector('button').onclick=()=>openCo(id);l.appendChild(d);});
+ ['wall','car','duo'].forEach(id=>{const c=core(id);const d=document.createElement('div');d.className='it';d.innerHTML=`<div class="th"><img src="/shop/img/black-ar15.webp" alt="" style="object-fit:contain;padding:4px;${id==='car'?'transform:rotate(-90deg)':''}"></div><div class="tx"><b>${esc(c.name)}${c.active===false?'<span class="tag">HIDDEN</span>':'<span class="tag">CORE</span>'}</b><small>${esc(c.line)}</small></div><div class="pr">$${esc(c.price)}</div><button class="ib" aria-label="edit"><svg viewBox="0 0 24 24" fill="none" stroke="currentColor" stroke-width="1.7" stroke-linecap="round"><path d="M4 20h4L19 9l-4-4L4 16z"/></svg></button>`;d.querySelector('button').onclick=()=>openCo(id);l.appendChild(d);});
  C.products.forEach((p,i)=>{const d=document.createElement('div');d.className='it';const img='';if(p.model)v3().then(m=>{try{const im=d.querySelector('.th');im.innerHTML=`<img src="${m.snapshot(p.model,220,180)}" alt="">`;}catch(e){}});
   d.innerHTML=`<div class="th">${img?`<img src="${img}" alt="">`:''}</div><div class="tx"><b>${esc(p.name)}${p.active?'<span class="tag live">LIVE</span>':'<span class="tag">DRAFT</span>'}</b><small>${esc(p.line||p.desc||'').slice(0,80)}</small></div><div class="pr">$${esc(p.price)}</div><button class="ib" aria-label="edit"><svg viewBox="0 0 24 24" fill="none" stroke="currentColor" stroke-width="1.7" stroke-linecap="round"><path d="M4 20h4L19 9l-4-4L4 16z"/></svg></button>`;
   d.querySelector('button').onclick=()=>openPr(i);l.appendChild(d);});}
